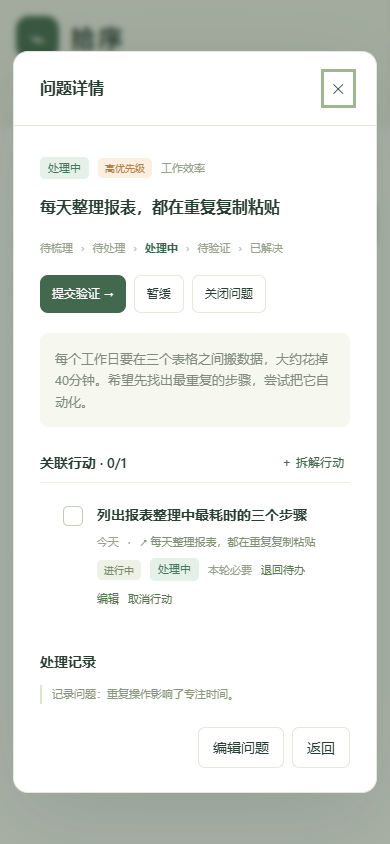
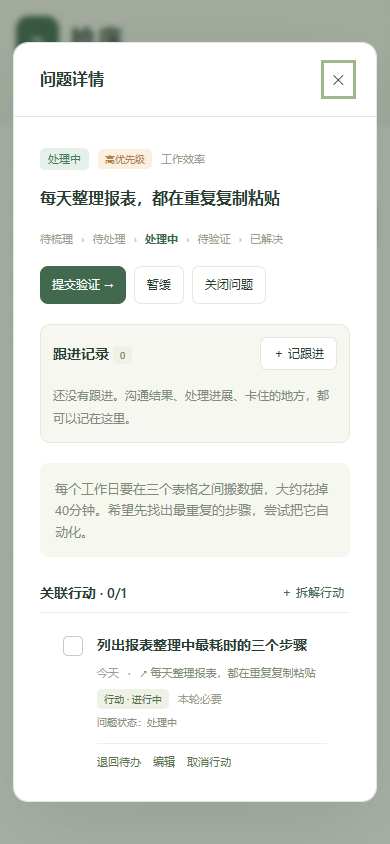
feat: add issue follow-up notes and clarify card layout

diff --git a/prototype.html b/prototype.html
@@ -4,6 +4,9 @@
 
 .state-badge{display:inline-block;font-size:11px;line-height:1.7;padding:2px 8px;border-radius:5px;background:#eff1e9;color:#6b795d;white-space:nowrap}.state-1{background:#edf0fa;color:#6c77a0}.state-2{background:#e5f0e9;color:#46765c}.state-3{background:#fbf0d9;color:#a27b31}.state-4{background:#deecdd;color:#4c7c46}.state-5{background:#f4eaf5;color:#916b97}.state-6{background:#edece9;color:#828078}.workflow-steps{display:flex;flex-wrap:wrap;gap:8px;font-size:11px;color:#98a18b;margin:18px 0}.workflow-steps .current{color:#37684c;font-weight:700}.workflow-steps i{font-style:normal;color:#bbc3b4}.workflow-actions,.modal-actions{display:flex;flex-wrap:wrap;gap:8px}.workflow-actions{margin:12px 0 20px}.workflow-actions button{font-size:12px;padding:8px 12px}.status-summary{display:flex;flex-wrap:wrap;gap:8px;margin:0 0 18px}.status-chip{border:1px solid var(--line);border-radius:20px;padding:5px 11px;font-size:11px;background:white;color:#718368}.status-chip.selected{background:#dde9d6;color:#436537;border-color:#b7c9a7}.review-reminder{margin:-9px 0 20px;padding:10px 16px;background:#f2eaf3;border-radius:8px}.board{grid-template-columns:repeat(4,minmax(0,1fr))}@media(max-width:1150px) and (min-width:701px){.board{grid-template-columns:repeat(2,minmax(0,1fr))}}
 .issue-card{grid-template-columns:minmax(0,1fr) auto}.issue-heading{display:flex;align-items:flex-start;justify-content:space-between;gap:16px}.issue-heading .issue-title{min-width:0;overflow-wrap:anywhere;padding-top:3px}.issue-heading .state-badge{display:inline-flex;align-items:center;gap:6px;flex-shrink:0;font-size:12px;font-weight:600;padding:4px 11px;border:1px solid currentColor;border-radius:20px}.issue-heading .state-badge::before{content:"";width:6px;height:6px;background:currentColor;border-radius:50%}.issue-heading .state-0{background:#f0ede0;color:#7b6d3e}@media(max-width:700px){.issue-card{padding:18px;gap:10px}.issue-heading{flex-wrap:wrap;gap:8px}.issue-heading .issue-title{flex-basis:100%}.issue-heading .state-badge{font-size:11px}}
+
+/* Cards group state with the title, and actions with metadata. */
+.issue-card{display:block;padding:22px 24px}.issue-card:last-child{border-bottom:0}.issue-heading{justify-content:flex-start;align-items:center;gap:12px}.issue-heading .issue-title{font-size:14px;padding:0}.issue-heading .state-badge{font-size:11px;padding:2px 9px;border:0}.issue-description{max-width:85ch}.issue-bottom{display:flex;justify-content:space-between;align-items:center;gap:12px;margin-top:15px}.issue-bottom .meta{margin:0}.issue-card-actions{display:flex;align-items:center;gap:20px;flex-shrink:0}.issue-card-actions button{padding:4px 0}.latest-followup{display:flex;align-items:baseline;gap:10px;margin-top:13px;padding:8px 12px;background:#f5f7f1;border-radius:6px;min-width:0}.latest-followup>span{font-size:10px;color:#849477;white-space:nowrap}.latest-followup p{font-size:12px;margin:0;overflow:hidden;text-overflow:ellipsis;white-space:nowrap}.task-status .pill{color:#526e49}.task-problem-status{font-size:10px;color:#87927d;margin-top:5px}.task-actions{display:flex;gap:12px;flex-wrap:wrap;border-top:1px solid #edf0e6;margin-top:12px;padding-top:9px}.followup-section{background:#f5f7f0;border:1px solid #e4eadb;border-radius:10px;padding:16px;margin:20px 0}.followup-head{display:flex;justify-content:space-between;align-items:center;gap:12px;margin-bottom:14px}.followup-head button{font-size:12px;padding:6px 12px}.followup-empty{font-size:12px!important;line-height:1.9}.followup-timeline{padding-left:10px}.followup-entry{position:relative;border-left:1px solid #ccd9c2;padding:0 0 20px 17px}.followup-entry:last-child{padding-bottom:0}.followup-entry::before{content:"";position:absolute;left:-4px;top:6px;width:7px;height:7px;border-radius:50%;background:#829b70}.followup-stamp{font-size:10px;color:#829173;margin-bottom:6px}.followup-content{white-space:pre-wrap;overflow-wrap:anywhere;color:#41583b;font-size:13px!important}.followup-context{margin-bottom:20px!important}.system-activity{margin:22px 0}.system-activity summary{cursor:pointer;font-size:12px;color:#839174}.system-activity .activity{white-space:pre-wrap;overflow-wrap:anywhere}#followup-form textarea{min-height:170px}@media(max-width:700px){.issue-card{padding:18px}.issue-heading .issue-title{flex-basis:auto}.issue-bottom{align-items:flex-start;flex-direction:column;gap:10px}.issue-card-actions{align-self:flex-end}.followup-section{padding:12px}.followup-head{gap:8px}}
 </style></head><body><aside><div class="brand"><div class="logo">⌁</div><div><b>拾序</b><small>A LITTLE MORE CLARITY</small></div></div><div class="nav-label">我的空间 / PERSONAL</div><nav id="nav"></nav><div class="sidebar-bottom"><b>让每个困扰，都有下一步。</b><p style="font-size:11px;margin-top:10px">个人工作台 · 本地体验版<br>数据仅保存在当前浏览器</p></div></aside><main><div class="topbar"><span>我的空间 <span style="margin:0 12px;color:#bcc6b2">/</span><span id="breadcrumb">今日概览</span></span><div class="topbar-right"><button data-event-id="EVT-ACTION" data-action="export" class="subtle">↓ 导出记录</button><span class="avatar">我</span></div></div><div id="storage-warning" class="banner hidden" role="alert"></div><div id="app" aria-live="polite">正在整理你的工作台…</div><div class="prototype-note">交互原型 · 初始内容为演示数据，可自由编辑。</div></main><dialog id="modal" aria-labelledby="modal-title"><div class="modal-head"><h2 id="modal-title"></h2><button data-event-id="EVT-ACTION" data-action="close" aria-label="关闭弹窗">✕</button></div><div id="modal-content" class="modal-body"></div></dialog><div id="toast" class="toast hidden" role="status"></div><script>
 const KEY='shixu-personal-v1',$=s=>document.querySelector(s),esc=s=>String(s??'').replace(/[&<>"']/g,c=>({'&':'&amp;','<':'&lt;','>':'&gt;','"':'&quot;',"'":'&#39;'}[c]));
 const date=d=>{const x=new Date();x.setDate(x.getDate()+d);return `${x.getFullYear()}-${String(x.getMonth()+1).padStart(2,'0')}-${String(x.getDate()).padStart(2,'0')}`},today=date(0),uid=()=>globalThis.crypto?.randomUUID?.()||`id-${Date.now()}-${Math.random().toString(36).slice(2)}`;
@@ -23,7 +26,7 @@ function issueMini(p){const ts=linked(p.id),n=ts.filter(t=>t.status==='已完成
 function render(){const labels={today:'今日概览',issues:'问题池',tasks:'行动看板',review:'复盘记录'},icons={today:'◷',issues:'▧',tasks:'☷',review:'↺'};$('#breadcrumb').textContent=labels[view];$('#nav').innerHTML=Object.keys(labels).map(k=>btn(icons[k]+'　'+labels[k]+`<span>${k==='issues'?active().length:k==='tasks'?pending().length:''}</span>`,'nav',k,'nav '+(view===k?'active':''))).join('');
 const head=(title,sub)=>`<div class="pagehead"><div><div class="eyebrow">${view==='today'?new Date().toLocaleDateString('zh-CN',{month:'long',day:'numeric',weekday:'long'}):'拾序 / '+labels[view]}</div><h1>${title}</h1><p>${sub}</p></div>${btn('＋ 随手记','new','','primary')}</div>`;
 if(view==='today'){const ts=pending().filter(t=>t.due&&t.due<=today&&!['已暂缓','已关闭'].includes(issue(t.issueId)?.status)).sort((a,b)=>a.due.localeCompare(b.due));$('#app').innerHTML=head('把困扰理清，把今天过好。','留一点空间给思考，也为重要的事迈出一小步。')+`<div class="stats">${[['待梳理的问题',active().filter(p=>p.status==='待梳理').length,'从一句话开始','issues'],['今天要推进',ts.length,'含逾期事项','tasks'],['正在行动',pending().filter(t=>t.status==='进行中').length,'一步一步来','tasks'],['已解决的问题',db.issues.filter(p=>p.status==='已解决').length,'每一次改善都算数','review']].map((s,i)=>btn(`<div class="label">${s[0]} ↗</div><div class="num">${String(s[1]).padStart(2,'0')}</div><small>${s[2]}</small>`,'nav',s[3],'stat '+(i===1?'highlight':''))).join('')}</div>${db.issues.some(dueReview)?`<div class="review-reminder">${btn('↺ '+db.issues.filter(dueReview).length+' 个暂缓问题到了回看时间 →','status-filter','已暂缓','subtle')}</div>`:''}<div class="workspace"><div><div class="panel"><div class="panelhead"><div><h2>今天，先做这些 <span class="pill">${ts.length}</span></h2><p>从最小的行动开始，完成一项就划掉一项。</p></div>${btn('＋ 添加','new-task','','subtle')}</div>${ts.length?ts.map(taskHTML).join(''):empty('今天的清单很轻盈','可以添加一项行动，或给自己留点空白。')}</div><div class="section-footer"><span>○ 问题值得被看见，行动可以很小。</span>${btn('查看全部行动 →','nav','tasks','subtle')}</div></div><div class="rightcol"><div class="panel"><div class="panelhead"><h2>值得关注的问题</h2>${btn('全部 →','nav','issues','subtle')}</div>${active().slice().sort((a,b)=>['高','中','低'].indexOf(a.priority)-['高','中','低'].indexOf(b.priority)).slice(0,3).map(issueMini).join('')||empty('暂时没有困扰','新的问题可以随时记下来。')}</div><div class="note"><div class="quote">“</div><h3>做完一件事，不等于解决一个问题。</h3><p>行动完成后，再问一句：原来的困扰，真的变少了吗？把答案留在复盘里。</p>${btn('去看看已解决的问题 →','nav','review','subtle')}<div style="margin-top:20px"><small>SMALL STEPS. REAL CHANGE.</small></div></div></div></div>`}
-else if(view==='issues'){const rows=db.issues.filter(p=>(scope==='全部'||(scope==='未解决'?OPEN_STATES.includes(p.status):p.status===scope))&&(priority==='全部'||p.priority===priority)&&[p.title,p.description,p.tag].join(' ').toLowerCase().includes(query.toLowerCase()));$('#app').innerHTML=head('让问题有处安放。','先记录真实困扰，再决定哪些值得行动。')+`<div class="toolbar"><input id="search" data-event-id="EVT-FILTER" value="${esc(query)}" placeholder="搜索问题、描述或分类…" aria-label="搜索问题"><select id="priority" data-event-id="EVT-FILTER" aria-label="优先级">${['全部','高','中','低'].map(x=>`<option ${priority===x?'selected':''}>${x}</option>`).join('')}</select><select id="scope" data-event-id="EVT-FILTER" aria-label="问题状态">${['未解决',...ISSUE_STATES,'全部'].map(x=>`<option ${scope===x?'selected':''}>${x}</option>`).join('')}</select></div><div class="status-summary">${['全部',...ISSUE_STATES].map(st=>btn(esc(st)+' · '+(st==='全部'?db.issues.length:db.issues.filter(p=>p.status===st).length),'status-filter',st,'status-chip '+(scope===st?'selected':''))).join('')}</div><div class="panel">${rows.length?rows.map(p=>`<div class="list-issue issue-card"><div><div class="issue-heading">${btn(esc(p.title),'detail',p.id,'issue-title')}${stateBadge(p)}</div><p>${esc(p.description||'还没有补充描述')}</p><div class="meta"><span class="pill ${p.priority==='高'?'high':''}">${p.priority}优先级</span><span>${esc(p.tag)}</span><span>${linked(p.id).length} 项关联行动</span></div></div>${btn('查看 →','detail',p.id,'subtle')}</div>`).join(''):empty('这里还没有匹配的问题','换个关键词或筛选条件，也可以记录一个新问题。')}</div>`}
+else if(view==='issues'){const rows=db.issues.filter(p=>(scope==='全部'||(scope==='未解决'?OPEN_STATES.includes(p.status):p.status===scope))&&(priority==='全部'||p.priority===priority)&&[p.title,p.description,p.tag].join(' ').toLowerCase().includes(query.toLowerCase()));$('#app').innerHTML=head('让问题有处安放。','先记录真实困扰，再决定哪些值得行动。')+`<div class="toolbar"><input id="search" data-event-id="EVT-FILTER" value="${esc(query)}" placeholder="搜索问题、描述或分类…" aria-label="搜索问题"><select id="priority" data-event-id="EVT-FILTER" aria-label="优先级">${['全部','高','中','低'].map(x=>`<option ${priority===x?'selected':''}>${x}</option>`).join('')}</select><select id="scope" data-event-id="EVT-FILTER" aria-label="问题状态">${['未解决',...ISSUE_STATES,'全部'].map(x=>`<option ${scope===x?'selected':''}>${x}</option>`).join('')}</select></div><div class="status-summary">${['全部',...ISSUE_STATES].map(st=>btn(esc(st)+' · '+(st==='全部'?db.issues.length:db.issues.filter(p=>p.status===st).length),'status-filter',st,'status-chip '+(scope===st?'selected':''))).join('')}</div><div class="panel">${rows.length?rows.map(issueCard).join(''):empty('这里还没有匹配的问题','换个关键词或筛选条件，也可以记录一个新问题。')}</div>`}
 else if(view==='tasks')$('#app').innerHTML=head('把下一步，变得具体。','每项行动都足够小，小到可以现在开始。')+`<div class="board">${['待办','进行中','已完成','已取消'].map(s=>{const ts=db.tasks.filter(t=>t.status===s);return `<section class="column"><h2>${s==='进行中'?'◐':s==='已完成'?'✓':'○'}　${s} <span class="pill">${ts.length}</span></h2>${ts.map(taskHTML).join('')||empty('暂时没有事项','为下一步留出空间')}${s==='待办'?btn('＋ 添加行动','new-task','','subtle'):''}</section>`}).join('')}</div>`;
 else $('#app').innerHTML=head('看见那些真正的改变。','完成待办后，验证效果。让经验成为下一次行动的起点。')+`<div class="panel">${db.issues.filter(p=>p.status==='已解决').map(p=>`<div class="list-issue"><div><span class="pill done">已验证解决</span><h3 style="margin-top:10px">${esc(p.title)}</h3><p>${esc(p.resolution)}</p></div>${btn('查看复盘 →','detail',p.id,'subtle')}</div>`).join('')||empty('第一份改善记录，还在路上','从一个小问题开始，解决后在这里留下验证结论。')}</div>`}
 function show(title,body){$('#modal-title').textContent=title;$('#modal-content').innerHTML=body;if(!$('#modal').open)$('#modal').showModal()}
@@ -37,7 +40,7 @@ function normalizeData(data) {
     if(!p.id||ids.has(p.id)||typeof p.title!=='string'||!ISSUE_STATES.includes(p.status))throw Error('Invalid issue');
     ids.add(p.id);
     for(const key of ['description','resolution','nextStep','successCriteria','treatment','verificationMethod','pauseReason','reviewDate','pausedFrom','closeReason','closeType','duplicateOf'])if(typeof p[key]!=='string')p[key]='';
-    p.logs=Array.isArray(p.logs)?p.logs:[];p.history=Array.isArray(p.history)?p.history:[];
+    p.logs=Array.isArray(p.logs)?p.logs:[];p.history=Array.isArray(p.history)?p.history:[];p.followups=Array.isArray(p.followups)?p.followups:[];
     p.tag=p.tag||'未分类';p.priority=['高','中','低'].includes(p.priority)?p.priority:'中';
   }
   const taskIds=new Set();
@@ -70,7 +73,27 @@ function workflowActions(p){
 function detail(id){
   const p=issue(id);if(!p)return;const ts=linked(id);
   const steps=OPEN_STATES.concat('已解决').map(s=>`<span class="${s===p.status?'current':''}">${s}</span>`).join('<i>›</i>');
-  show('问题详情',`<div class="meta">${stateBadge(p)}<span class="pill ${p.priority==='高'?'high':''}">${p.priority}优先级</span><span>${esc(p.tag)}</span></div><h2 style="margin-top:15px">${esc(p.title)}</h2><div class="workflow-steps">${steps}</div><div class="workflow-actions">${workflowActions(p)}</div>${p.status==='已暂缓'?`<p class="detail-desc">暂缓原因：${esc(p.pauseReason)}<br>回看日期：${esc(p.reviewDate)}${dueReview(p)?' · 已到回看时间':''}<br>恢复阶段：${esc(p.pausedFrom)}</p>`:''}${p.status==='已关闭'?`<p class="detail-desc">关闭类型：${esc(p.closeType)}<br>关闭原因：${esc(p.closeReason)}${p.duplicateOf?'<br>重复于：'+esc(issue(p.duplicateOf)?.title||p.duplicateOf):''}</p>`:''}<p class="detail-desc">${esc(p.description||'暂未补充描述')}</p>${p.nextStep?`<p class="detail-desc">下一步：${esc(p.nextStep)}<br>解决标准：${esc(p.successCriteria)}</p>`:''}${p.treatment?`<p class="detail-desc">处理说明：${esc(p.treatment)}<br>验证方式：${esc(p.verificationMethod)}</p>`:''}<div class="panelhead" style="padding:8px 0"><h3>关联行动 · ${ts.filter(t=>t.status==='已完成').length}/${ts.length}</h3>${OPEN_STATES.includes(p.status)?btn('＋ 拆解行动','new-linked',id,'subtle'):''}</div>${ts.map(taskHTML).join('')||'<p class="tip">还没有行动。可以先写下问题，再慢慢拆解。</p>'}${p.status==='处理中'&&remaining(id).length===0?'<p class="tip">本轮必要行动已无未完成项，可以提交验证；问题不会自动解决。</p>':''}<h3 style="margin:22px 0 12px">处理记录</h3>${p.logs.map(l=>`<div class="activity">${esc(l)}</div>`).join('')}${p.resolution?`<p class="detail-desc">${p.status==='已解决'?'验证结论':'上次验证结论'}：${esc(p.resolution)}</p>`:''}<div class="modal-actions">${btn('编辑问题','edit-issue',id)}${btn('返回','close')}</div>`);
+  show('问题详情',`<div class="meta">${stateBadge(p)}<span class="pill ${p.priority==='高'?'high':''}">${p.priority}优先级</span><span>${esc(p.tag)}</span></div><h2 style="margin-top:15px">${esc(p.title)}</h2><div class="workflow-steps">${steps}</div><div class="workflow-actions">${workflowActions(p)}</div>${followupTimeline(p)}${p.status==='已暂缓'?`<p class="detail-desc">暂缓原因：${esc(p.pauseReason)}<br>回看日期：${esc(p.reviewDate)}${dueReview(p)?' · 已到回看时间':''}<br>恢复阶段：${esc(p.pausedFrom)}</p>`:''}${p.status==='已关闭'?`<p class="detail-desc">关闭类型：${esc(p.closeType)}<br>关闭原因：${esc(p.closeReason)}${p.duplicateOf?'<br>重复于：'+esc(issue(p.duplicateOf)?.title||p.duplicateOf):''}</p>`:''}<p class="detail-desc">${esc(p.description||'暂未补充描述')}</p>${p.nextStep?`<p class="detail-desc">下一步：${esc(p.nextStep)}<br>解决标准：${esc(p.successCriteria)}</p>`:''}${p.treatment?`<p class="detail-desc">处理说明：${esc(p.treatment)}<br>验证方式：${esc(p.verificationMethod)}</p>`:''}<div class="panelhead" style="padding:8px 0"><h3>关联行动 · ${ts.filter(t=>t.status==='已完成').length}/${ts.length}</h3>${OPEN_STATES.includes(p.status)?btn('＋ 拆解行动','new-linked',id,'subtle'):''}</div>${ts.map(taskHTML).join('')||'<p class="tip">还没有行动。可以先写下问题，再慢慢拆解。</p>'}${p.status==='处理中'&&remaining(id).length===0?'<p class="tip">本轮必要行动已无未完成项，可以提交验证；问题不会自动解决。</p>':''}<details class="system-activity"><summary>状态与操作记录 · ${p.logs.length}</summary>${p.logs.slice().reverse().map(l=>`<div class="activity">${esc(l)}</div>`).join('')}</details>${p.resolution?`<p class="detail-desc">${p.status==='已解决'?'验证结论':'上次验证结论'}：${esc(p.resolution)}</p>`:''}<div class="modal-actions">${btn('编辑问题','edit-issue',id)}${btn('返回','close')}</div>`);
+}
+function followupForm(id){
+  const p=issue(id);if(!p)return;
+  show('记一条跟进',`<form id="followup-form" data-event-id="EVT-SUBMIT" data-id="${esc(id)}"><p class="followup-context">${esc(p.title)}</p>${field('这次有什么进展？',`<textarea name="content" data-event-id="EVT-FIELD" required maxlength="5000" placeholder="做了什么、和谁沟通过、遇到什么阻碍……先记下来。"></textarea>`)}<p class="tip">记录会留在这个问题的跟进时间线中，不会改变问题状态。</p><div id="form-error" class="error" role="alert"></div><div class="modal-actions">${btn('返回详情','detail',id)}<button type="submit" class="primary" data-event-id="EVT-SUBMIT">保存跟进</button></div></form>`);
+  $('[name="content"]').focus();
+}
+function addFollowup(p,content){
+  const text=String(content||'').trim();
+  if(!text)return '请写一点跟进内容，不能只输入空格。';
+  if(text.length>5000)return '跟进内容最多5000字。';
+  p.followups.push({id:uid(),content:text,at:new Date().toISOString(),actor:'我'});
+  return '';
+}
+function followupTimeline(p){
+  const rows=p.followups.slice().reverse();
+  return `<section class="followup-section"><div class="followup-head"><h3>跟进记录 <span class="pill">${rows.length}</span></h3>${btn('＋ 记跟进','followup',p.id,'secondary')}</div>${rows.length?`<div class="followup-timeline">${rows.map(n=>`<article class="followup-entry"><div class="followup-stamp">${esc(n.actor)} · ${esc(new Date(n.at).toLocaleString('zh-CN'))}</div><p class="followup-content">${esc(n.content)}</p></article>`).join('')}</div>`:'<p class="followup-empty">还没有跟进。沟通结果、处理进展、卡住的地方，都可以记在这里。</p>'}</section>`;
+}
+function issueCard(p){
+  const latest=p.followups.at(-1);
+  return `<div class="list-issue issue-card"><div class="issue-heading">${btn(esc(p.title),'detail',p.id,'issue-title')}${stateBadge(p)}</div><p class="issue-description">${esc(p.description||'还没有补充描述')}</p>${latest?`<div class="latest-followup"><span>最近跟进</span><p>${esc(latest.content)}</p></div>`:''}<div class="issue-bottom"><div class="meta"><span class="pill ${p.priority==='高'?'high':''}">${p.priority}优先级</span><span>${esc(p.tag)}</span><span>${linked(p.id).length} 项行动</span><span>${p.followups.length} 条跟进</span></div><div class="issue-card-actions">${btn('＋ 记跟进','followup',p.id,'subtle')}${btn('详情 →','detail',p.id,'subtle')}</div></div></div>`;
 }
 function workflowForm(action,id){
   const p=issue(id);if(!p)return;
@@ -132,7 +155,7 @@ function transitionIssue(p,action,v){
 }
 function taskHTML(t){
   const p=issue(t.issueId),finished=['已完成','已取消'].includes(t.status);
-  return `<div class="task ${finished?'done':''}"><button data-event-id="EVT-ACTION" data-action="toggle" data-id="${esc(t.id)}" class="check" aria-label="${finished?'重新打开':'完成'}：${esc(t.title)}">${t.status==='已完成'?'✓':t.status==='已取消'?'−':''}</button><div class="taskbody"><h3>${esc(t.title)}</h3><div class="meta"><span class="${t.due&&t.due<today&&!finished?'late':''}">${dueLabel(t)}</span><span>·</span>${p?btn('↗ '+esc(p.title),'detail',p.id,'source'):'<span>独立待办</span>'}</div><div class="meta"><span class="pill">${t.status}</span>${p?stateBadge(p):''}<span>${t.required===false?'后续改进':'本轮必要'}</span>${!finished?btn(t.status==='待办'?'开始行动 →':'退回待办','advance',t.id,'nextbtn'):''}${btn('编辑','edit-task',t.id,'nextbtn')}${!finished?btn('取消行动','cancel-task',t.id,'nextbtn'):''}</div>${t.status==='已取消'?`<p class="tip">取消原因：${esc(t.cancelReason)}</p>`:''}</div></div>`;
+  return `<div class="task ${finished?'done':''}"><button data-event-id="EVT-ACTION" data-action="toggle" data-id="${esc(t.id)}" class="check" aria-label="${finished?'重新打开':'完成'}：${esc(t.title)}">${t.status==='已完成'?'✓':t.status==='已取消'?'−':''}</button><div class="taskbody"><h3>${esc(t.title)}</h3><div class="meta"><span class="${t.due&&t.due<today&&!finished?'late':''}">${dueLabel(t)}</span><span>·</span>${p?btn('↗ '+esc(p.title),'detail',p.id,'source'):'<span>独立待办</span>'}</div><div class="meta task-status"><span class="pill">行动 · ${t.status}</span><span>${t.required===false?'后续改进':'本轮必要'}</span></div>${p?`<div class="task-problem-status">问题状态：${esc(p.status)}</div>`:''}<div class="task-actions">${!finished?btn(t.status==='待办'?'开始行动 →':'退回待办','advance',t.id,'nextbtn'):''}${btn('编辑','edit-task',t.id,'nextbtn')}${!finished?btn('取消行动','cancel-task',t.id,'nextbtn'):''}</div>${t.status==='已取消'?`<p class="tip">取消原因：${esc(t.cancelReason)}</p>`:''}</div></div>`;
 }
 function changeTask(t,action){
   const p=issue(t.issueId);
@@ -181,6 +204,7 @@ document.addEventListener('click',e=>{
   else if(a==='edit-task')edit('task',id);else if(a==='edit-issue')edit('issue',id);
   else if(a==='toggle'||a==='advance'){const t=db.tasks.find(t=>t.id===id);if(t)changeTask(t,a)}
   else if(a==='cancel-task')cancelTaskForm(id);
+  else if(a==='followup')followupForm(id);
   else if(['triage','start','verify','resolve','reject','pause','resume','close-issue','reopen','retriage'].includes(a))workflowForm(a,id);
   else if(a==='export'){const blob=new Blob([JSON.stringify(db,null,2)],{type:'application/json'}),url=URL.createObjectURL(blob),anchor=document.createElement('a');anchor.href=url;anchor.download='拾序记录-'+today+'.json';anchor.click();setTimeout(()=>URL.revokeObjectURL(url),1000);toast('已导出当前全部问题、行动与状态记录')}
 });
@@ -192,7 +216,8 @@ document.addEventListener('change',e=>{if(e.target.dataset.eventId==='EVT-FILTER
 document.addEventListener('submit',e=>{
   if(e.target.dataset.eventId!=='EVT-SUBMIT')return;e.preventDefault();
   const f=e.target,v=Object.fromEntries(new FormData(f)),id=f.dataset.id;let error='',returnId=null;
-  if(f.id==='workflow-form'){const p=issue(id);error=p?transitionIssue(p,f.dataset.transition,v):'问题不存在';returnId=id}
+  if(f.id==='followup-form'){const p=issue(id);error=p?addFollowup(p,v.content):'问题不存在';returnId=id}
+  else if(f.id==='workflow-form'){const p=issue(id);error=p?transitionIssue(p,f.dataset.transition,v):'问题不存在';returnId=id}
   else if(f.id==='cancel-form'){const t=db.tasks.find(t=>t.id===id);if(!t)return;const p=issue(t.issueId);if(!v.reason.trim())error='请填写取消原因。';else if(p&&['已暂缓','已关闭'].includes(p.status))error='请先恢复或重新打开问题。';else{t.status='已取消';t.cancelReason=v.reason.trim();log(p,'取消行动：'+t.title+'；'+t.cancelReason);returnId=p?.id}}
   else error=submitRecord(f,v);
   if(error){$('#form-error').textContent=error;return}

diff --git a/evaluation/browser-test.js b/evaluation/browser-test.js
@@ -47,7 +47,7 @@ async () => {
     check('关闭并取消未完成待办',canceled.status==='已取消'&&canceled.cancelReason.includes('决定放弃'));
     detail(p.id);click('toggle',canceled.id);check('关闭问题不可经任务绕过重开',p.status==='已关闭'&&canceled.status==='已取消');
     const before=JSON.stringify(p);check('非法跳转在状态机层拒绝',!!transitionIssue(p,'resolve',{resolution:'跳过'})&&JSON.stringify(p)===before);
-    click('close');click('nav','issues');click('status-filter','已关闭');check('七状态筛选可用',document.querySelector('#app').textContent.includes(p.title)&&document.querySelectorAll('.status-chip').length===7);
+    click('close');click('nav','issues');click('status-filter','已关闭');check('七状态筛选可用',document.querySelector('#app').textContent.includes(p.title)&&document.querySelectorAll('.status-chip').length===8);
     document.querySelector('#search').value='NO_MATCH_123';document.querySelector('#search').dispatchEvent(new Event('input',{bubbles:true}));check('状态筛选与搜索组合空态',document.querySelector('#app').textContent.includes('这里还没有匹配'));
     query='';priority='全部';scope='未解决';view='today';render();
     click('new');fill('title','没有行动也可验证的观察');submit();const observed=db.issues[0];

diff --git a/evaluation/workflow-test.js b/evaluation/workflow-test.js
@@ -47,7 +47,7 @@ async () => {
     check('关闭并取消未完成待办',canceled.status==='已取消'&&canceled.cancelReason.includes('决定放弃'));
     detail(p.id);click('toggle',canceled.id);check('关闭问题不可经任务绕过重开',p.status==='已关闭'&&canceled.status==='已取消');
     const before=JSON.stringify(p);check('非法跳转在状态机层拒绝',!!transitionIssue(p,'resolve',{resolution:'跳过'})&&JSON.stringify(p)===before);
-    click('close');click('nav','issues');click('status-filter','已关闭');check('七状态筛选可用',document.querySelector('#app').textContent.includes(p.title)&&document.querySelectorAll('.status-chip').length===7);
+    click('close');click('nav','issues');click('status-filter','已关闭');check('七状态筛选可用',document.querySelector('#app').textContent.includes(p.title)&&document.querySelectorAll('.status-chip').length===8);
     document.querySelector('#search').value='NO_MATCH_123';document.querySelector('#search').dispatchEvent(new Event('input',{bubbles:true}));check('状态筛选与搜索组合空态',document.querySelector('#app').textContent.includes('这里还没有匹配'));
     query='';priority='全部';scope='未解决';view='today';render();
     click('new');fill('title','没有行动也可验证的观察');submit();const observed=db.issues[0];

diff --git a/README.md b/README.md
@@ -2,7 +2,7 @@
 
 > 把困扰理清，把今天过好。
 
-版本：1.1.1 · 离线交互原型
+版本：1.2.0 · 离线交互原型
 
 拾序帮助个人记录问题痛点，把问题拆成下一步行动，并在行动完成后验证是否真正改善。
 
@@ -39,6 +39,12 @@
 - 问题卡片标题旁展示彩色状态徽标；快捷筛选支持“全部 · 总数”以及七种状态。
 - 沿用原本的本地存储位置；旧记录在读取时补齐新字段，保留原内容和状态。
 
+## 跟进记录
+
+在问题卡片右下角点击“＋ 记跟进”，或在详情的“跟进记录”里点击同名按钮，写下一段进展即可保存。详情按最新在前展示完整记录，卡片显示最近跟进摘要；记录跟进不会改变状态。自动状态与操作日志单独保留在可展开区域。
+
+行动卡片中的“行动 · 待办”表示这一具体步骤还没开始，“问题状态：处理中”表示它所属的整个问题正在处理。
+
 ## 数据与边界
 
 - 记录保存在当前浏览器的本地存储中，支持 JSON 导出。
@@ -61,7 +67,7 @@
 
 ## 验证
 
-50 项检查通过，覆盖七状态主流程、暂缓恢复、关闭与待办处置、重新打开、旧记录兼容、刷新持久化、搜索筛选、导出、存储失败提示和 390px 移动布局。
+原有 50 项回归和 14 项跟进检查通过，覆盖七状态主流程、暂缓恢复、关闭与待办处置、重新打开、旧记录兼容、刷新持久化、搜索筛选、导出、存储失败提示和 390px 移动布局。
 
 `evaluation/browser-test.js` 是浏览器评估函数；请在独立测试浏览器中运行，不要使用存有真实记录的浏览器。完整 50 项报告包含额外的刷新、兼容和移动布局检查，可查看 `evaluation/workflow-report.json`。
 

diff --git a/user-flow.md b/user-flow.md
@@ -22,3 +22,13 @@ START → 读取本地记录并补齐字段 → 今日概览
 ## 问题池展示补充（1.1.1）
 
 状态快捷筛选最前面提供“全部 · 总数”，点击后包含七种状态并与状态下拉框同步；保留关键词和优先级条件。每张问题卡片在标题区域展示带圆点、文字和颜色的状态徽标，手机上自动换行。
+
+## 跟进记录与卡片呈现（1.2.0）
+
+问题池每张卡片右下角提供“＋ 记跟进”，详情顶部也有同一入口。只需写下进展、沟通结果或阻碍即可保存，不需要改变问题状态。记录自动带时间与记录人，详情“跟进记录”按最新在前展示，卡片显示最近一条摘要与条数。
+
+问题卡片将状态紧跟标题，操作统一在底部。行动卡片明确显示“行动 · 待办”和“问题状态：处理中”：前者是具体步骤，后者是整个问题的阶段，状态不同是正常情况。
+
+跟进正文限制1至5000字，空白拒绝，按纯文本显示；保存失败提示导出，取消不会新增记录。人工跟进独立于自动状态与操作记录，自动记录保留在详情可展开区域。旧问题自动补空followups数组，不修改原记录。JSON导出包含完整跟进。本版仍为浏览器本地保存，不提供多用户身份或云端同步。
+
+验证：原有50项回归与14项跟进检查通过，覆盖空白校验、安全显示、两条记录顺序、原状态不变、取消、刷新、JSON导出、卡片摘要与390px布局。

diff --git a/prd.md b/prd.md
@@ -93,3 +93,13 @@
 ## 问题池展示补充（1.1.1）
 
 状态快捷筛选最前面提供“全部 · 总数”，点击后包含七种状态并与状态下拉框同步；保留关键词和优先级条件。每张问题卡片在标题区域展示带圆点、文字和颜色的状态徽标，手机上自动换行。
+
+## 跟进记录与卡片呈现（1.2.0）
+
+问题池每张卡片右下角提供“＋ 记跟进”，详情顶部也有同一入口。只需写下进展、沟通结果或阻碍即可保存，不需要改变问题状态。记录自动带时间与记录人，详情“跟进记录”按最新在前展示，卡片显示最近一条摘要与条数。
+
+问题卡片将状态紧跟标题，操作统一在底部。行动卡片明确显示“行动 · 待办”和“问题状态：处理中”：前者是具体步骤，后者是整个问题的阶段，状态不同是正常情况。
+
+跟进正文限制1至5000字，空白拒绝，按纯文本显示；保存失败提示导出，取消不会新增记录。人工跟进独立于自动状态与操作记录，自动记录保留在详情可展开区域。旧问题自动补空followups数组，不修改原记录。JSON导出包含完整跟进。本版仍为浏览器本地保存，不提供多用户身份或云端同步。
+
+验证：原有50项回归与14项跟进检查通过，覆盖空白校验、安全显示、两条记录顺序、原状态不变、取消、刷新、JSON导出、卡片摘要与390px布局。

diff --git a/CHANGELOG.md b/CHANGELOG.md
@@ -1,5 +1,14 @@
 # 更新日志
 
+## 1.2.0 - 2026-09-30
+
+- 增加问题卡片与详情的“记跟进”入口，仅需正文即可记录。
+- 新增跟进时间线、记录数量和最近跟进摘要，支持本地保存与JSON导出。
+- 区分人工跟进与自动状态操作记录，保留全部旧数据。
+- 状态紧跟问题标题，卡片操作统一排在底部。
+- 行动卡片明确区分行动状态与关联问题状态，分开呈现操作按钮。
+- 原有50项回归和14项跟进检查通过，补齐接口与数据设计。
+
 ## 1.1.1 - 2026-09-30
 
 - 问题池状态筛选首位新增“全部”与总数，支持一键查看所有状态。
